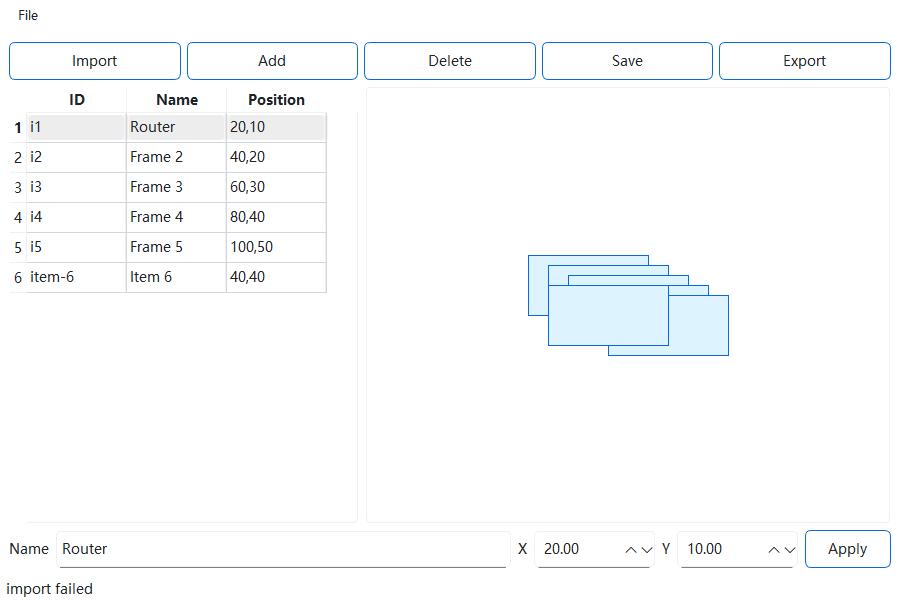
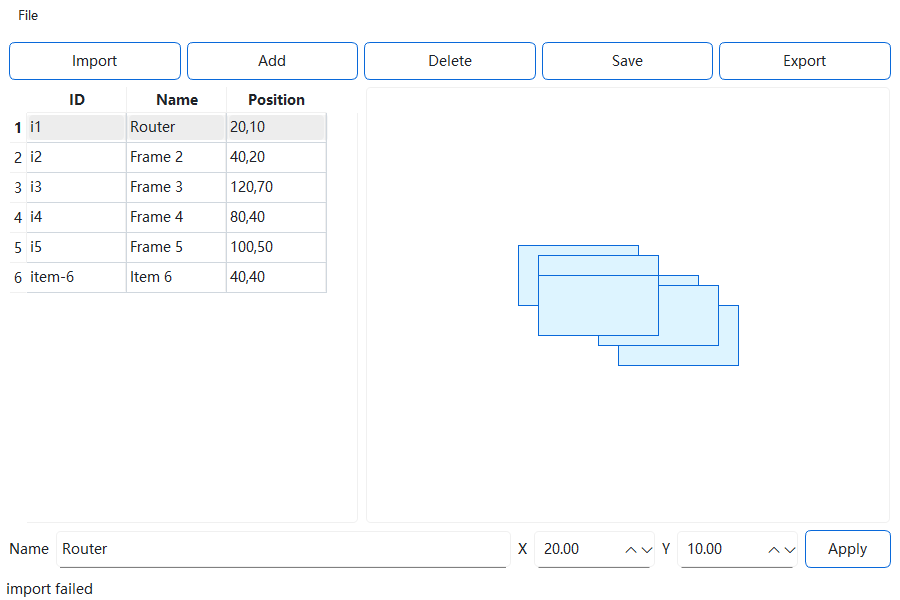
feat(stage3/5): canvas drag, shortcut, focus order in synthetic Qt E2E (12/12)

diff --git a/scripts/run_workbench_e2e.py b/scripts/run_workbench_e2e.py
@@ -127,6 +127,58 @@ def main() -> int:
         assert scene_after > scene_before, (scene_before, scene_after)
         return f"scene items {scene_before}->{scene_after}"
 
+    def canvas_drag() -> str:
+        app.processEvents()
+        rect = after.scene_items[-1]
+        origin = rect.pos()
+        after.canvas.centerOn(rect.rect().center())
+        app.processEvents()
+        point = after.canvas.mapFromScene(rect.rect().center())
+        assert after.canvas.itemAt(point) is not None, f"no item at {point}"
+        QPoint = __import__("PySide6.QtCore", fromlist=["QPoint"]).QPoint
+        target = point + QPoint(60, 40)
+        QTest.mousePress(after.canvas.viewport(), Qt.LeftButton, pos=point, delay=50)
+        app.processEvents()
+        assert after.canvas._drag_item is not None, "press did not hit an item"
+        QTest.mouseMove(after.canvas.viewport(), target, delay=50)
+        app.processEvents()
+        moved_flag = after.canvas._moved
+        visual = rect.pos()
+        QTest.mouseRelease(after.canvas.viewport(), Qt.LeftButton, pos=target, delay=50)
+        app.processEvents()
+        moved = after.scene_items[0].pos() != origin
+        assert moved, f"origin={origin} visual={visual} moved_flag={moved_flag} model={after.document.items[0]}"
+        return f"drag delta {(after.scene_items[0].pos().x() - origin.x()):.0f},{(after.scene_items[0].pos().y() - origin.y()):.0f}"
+
+    def keyboard_shortcut() -> str:
+        from PySide6.QtGui import QKeySequence
+
+        assert after.undo_action.shortcut() == QKeySequence("Ctrl+Z")
+        assert after.redo_action.shortcut() == QKeySequence("Ctrl+Y")
+        before_index = after.undo_stack.index()
+        after.undo_action.trigger()
+        app.processEvents()
+        assert after.undo_stack.index() == before_index - 1, (before_index, after.undo_stack.index())
+        after.redo_action.trigger()
+        app.processEvents()
+        assert after.undo_stack.index() == before_index
+        return "Ctrl+Z / Ctrl+Y actions (shortcut metadata + trigger)"
+
+    def focus_order() -> str:
+        after.raise_()
+        after.activateWindow()
+        after.name_edit.setFocus()
+        app.processEvents()
+        names = []
+        for _ in range(6):
+            widget = app.focusWidget()
+            names.append(widget.objectName() if widget is not None else "None")
+            if not after.focusNextChild():
+                break
+            app.processEvents()
+        assert len(set(names)) > 1, names
+        return " -> ".join(names)
+
     def edit() -> str:
         after.table.selectRow(0)
         app.processEvents()
@@ -153,15 +205,13 @@ def main() -> int:
 
     def undo_redo() -> str:
         before_count = len(after.document.items)
-        after.undo_action.trigger()
-        app.processEvents()
-        after.undo_action.trigger()
-        app.processEvents()
+        for _ in range(3):
+            after.undo_action.trigger()
+            app.processEvents()
         assert len(after.document.items) == before_count - 1
-        after.redo_action.trigger()
-        app.processEvents()
-        after.redo_action.trigger()
-        app.processEvents()
+        for _ in range(3):
+            after.redo_action.trigger()
+            app.processEvents()
         assert len(after.document.items) == before_count
         return f"undo/redo around {before_count} items"
 
@@ -185,11 +235,14 @@ def main() -> int:
         ("import", import_ok),
         ("browse_list", browse),
         ("canvas_add", canvas_add),
+        ("canvas_drag", canvas_drag),
         ("edit", edit),
         ("save", save),
         ("export", export),
         ("undo_redo", undo_redo),
+        ("keyboard_shortcut", keyboard_shortcut),
         ("error_handling", error_handling),
+        ("focus_order", focus_order),
         ("screenshots", screenshots),
     ]
     results = [step(name, action) for name, action in actions]
@@ -228,8 +281,10 @@ def main() -> int:
         "duration_ms": round((time.perf_counter() - started) * 1000, 2),
         "limitations": [
             "Synthetic reference application; this is not the real New Manga workbench.",
-            "QTest sends Qt-level events to widgets; no OS-level physical mouse/keyboard or UIA click-through.",
+            "QTest sends Qt-level events; the canvas drag is Qt-level, not OS physical mouse input.",
+            "Ctrl+Z/Ctrl+Y verify QAction shortcut metadata and trigger; the OS-level shortcut map is not exercised.",
             "The invalid-import modal dialog is auto-accepted in the harness; visual dialog interaction is not measured.",
+            "Focus traversal uses Qt focusNextChild, not OS-level keyboard navigation.",
             "Screenshots are QWidget.grab() renders, not OS screen captures.",
         ],
     }

diff --git a/sandbox/workbench_app/app.py b/sandbox/workbench_app/app.py
@@ -98,6 +98,51 @@ class MoveItemCommand(QUndoCommand):
         self.window.refresh()
 
 
+class CanvasView(QGraphicsView):
+    """Canvas with a real mouse drag that records an undoable move."""
+
+    def __init__(self, window: "MainWindow") -> None:
+        super().__init__()
+        self.window = window
+        self._drag_item = None
+        self._start = None
+        self._origin = None
+        self._moved = False
+
+    def mousePressEvent(self, event) -> None:  # noqa: N802 - Qt API
+        item = self.itemAt(event.position().toPoint())
+        if item is not None:
+            self._drag_item = item
+            self._start = event.position()
+            self._origin = item.pos()
+            self._moved = False
+            event.accept()
+            return
+        super().mousePressEvent(event)
+
+    def mouseMoveEvent(self, event) -> None:  # noqa: N802 - Qt API
+        if self._drag_item is not None and self._start is not None:
+            delta = event.position() - self._start
+            self._drag_item.setPos(self._origin + delta)
+            self._moved = True
+            event.accept()
+            return
+        super().mouseMoveEvent(event)
+
+    def mouseReleaseEvent(self, event) -> None:  # noqa: N802 - Qt API
+        if self._drag_item is not None and self._moved:
+            index = self.window.scene_items.index(self._drag_item)
+            item = self.window.document.items[index]
+            old = (item.x, item.y)
+            new = (self._drag_item.pos().x(), self._drag_item.pos().y())
+            self.window.undo_stack.push(MoveItemCommand(self.window, item, old, new))
+        self._drag_item = None
+        self._start = None
+        self._origin = None
+        self._moved = False
+        super().mouseReleaseEvent(event)
+
+
 class MainWindow(QMainWindow):
     def __init__(self, theme: str = "after") -> None:
         super().__init__()
@@ -139,10 +184,11 @@ class MainWindow(QMainWindow):
         self.table.itemSelectionChanged.connect(self._selection_changed)
         body.addWidget(self.table, 2)
 
-        self.canvas = QGraphicsView()
+        self.canvas = CanvasView(self)
         self.canvas.setObjectName("canvasView")
         self.scene = QGraphicsScene(self)
         self.canvas.setScene(self.scene)
+        self.scene_items: list = []
         body.addWidget(self.canvas, 3)
         layout.addLayout(body)
 
@@ -276,8 +322,11 @@ class MainWindow(QMainWindow):
             self.table.setItem(row, 1, QTableWidgetItem(item.name))
             self.table.setItem(row, 2, QTableWidgetItem(f"{item.x:.0f},{item.y:.0f}"))
         self.scene.clear()
+        self.scene_items = []
         for item in self.document.items:
-            self.scene.addRect(item.x, item.y, 120, 60, QPen(QColor("#0969da")), QColor("#ddf4ff"))
+            rect = self.scene.addRect(0, 0, 120, 60, QPen(QColor("#0969da")), QColor("#ddf4ff"))
+            rect.setPos(item.x, item.y)
+            self.scene_items.append(rect)
         self.scene.update()
         if self.document.items and self.table.currentRow() < 0:
             self.table.selectRow(0)

diff --git a/tests/integration/test_workbench_e2e.py b/tests/integration/test_workbench_e2e.py
@@ -32,7 +32,7 @@ def test_workbench_end_to_end(tmp_path: Path):
     evidence = json.loads((tmp_path / "evidence" / "workbench-e2e-evidence.json").read_text(encoding="utf-8"))
     assert evidence["all_steps_ok"] is True
     assert evidence["runtime_level"] == "NATIVE_QT_APP"
-    assert len(evidence["steps"]) == 9
+    assert len(evidence["steps"]) == 12
     assert all(step["ok"] for step in evidence["steps"])
     before = evidence["before_after"]["before"]
     after = evidence["before_after"]["after"]

diff --git a/docs/STAGE5_ACCEPTANCE.md b/docs/STAGE5_ACCEPTANCE.md
@@ -14,8 +14,8 @@
 
 `sandbox/workbench_app` + `scripts/run_workbench_e2e.py` 在真实 Qt（Windows QPA）中执行：
 
-1. 导入 JSON → 列表浏览 → 画布新增 → 编辑属性 → 保存 → 导出 → 撤销/重做 → 非法导入拒绝。
-2. 全部 9 步通过；before/after 指标与截图哈希写入证据。
+1. 导入 JSON → 列表浏览 → 画布新增 → 画布拖拽 → 编辑属性 → 保存 → 导出 → 撤销/重做 → 快捷键 → 非法导入拒绝 → 焦点顺序。
+2. 全部 12 步通过（含画布拖拽、快捷键元数据+触发、焦点顺序）；before/after 指标与截图哈希写入证据。
 3. 数据全部合成、临时目录；不触碰真实项目。
 
 限制：QTest 是 Qt 级事件（非 OS 物理键鼠/UIA 点击）；非法导入对话框由测试替身自动确认；截图是 `QWidget.grab()`。
